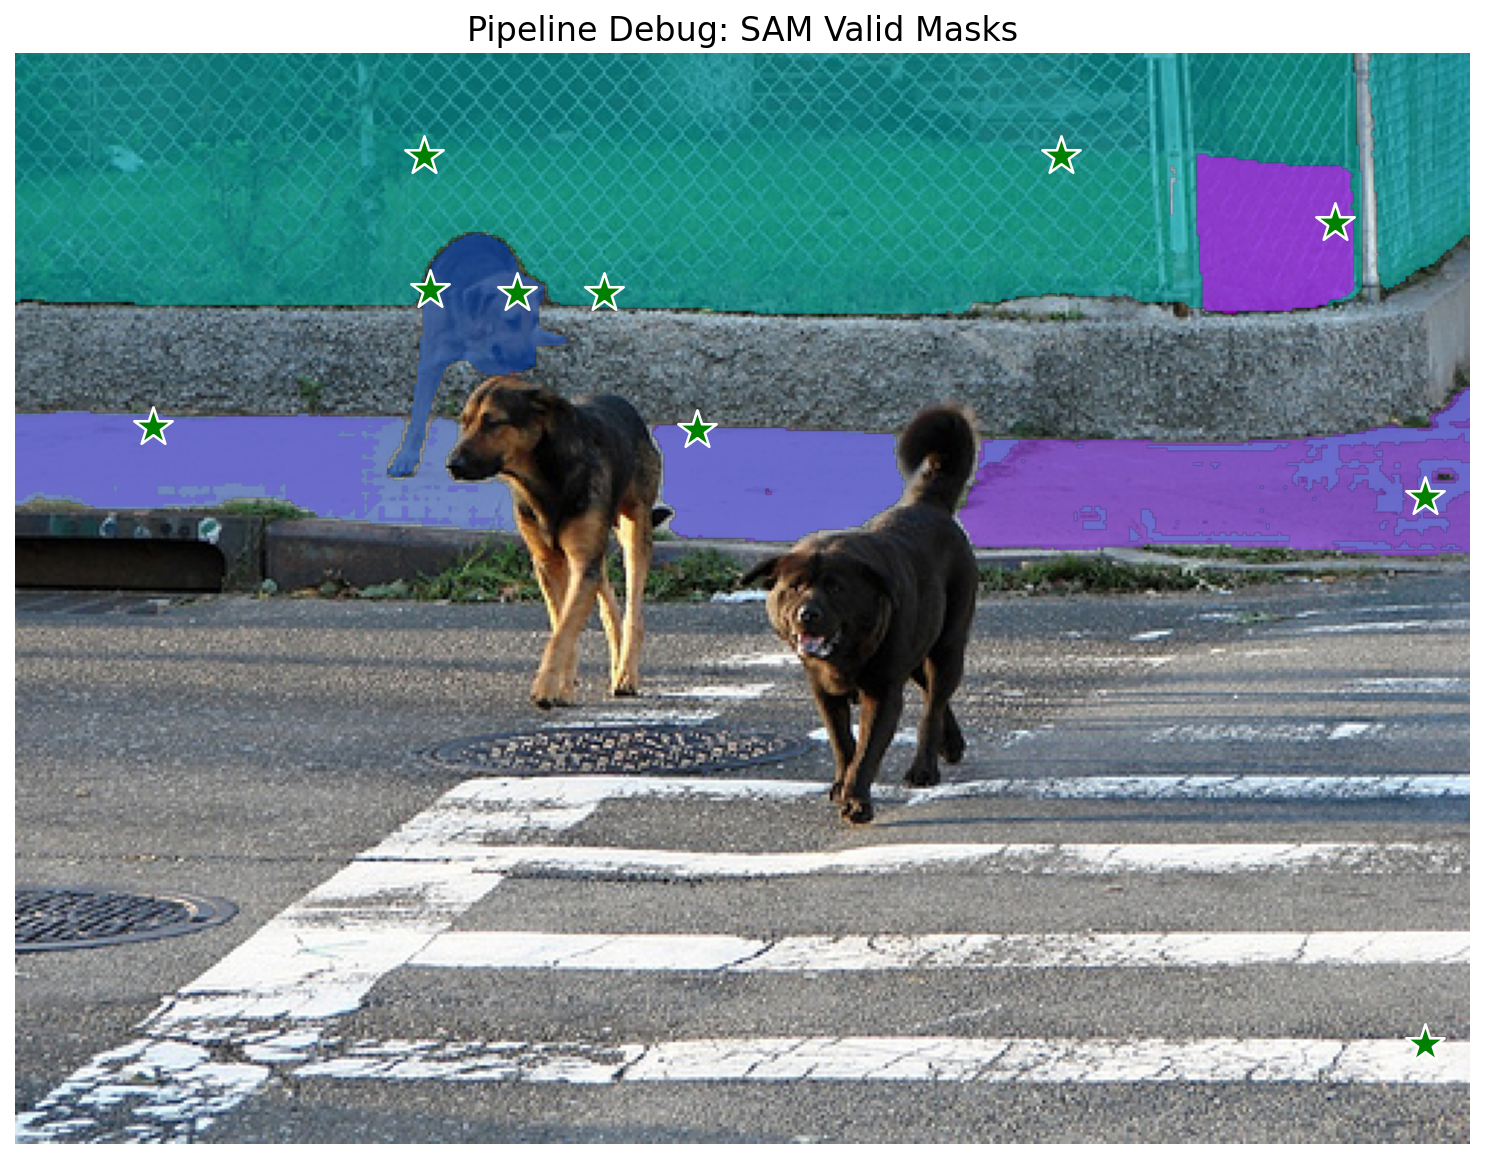
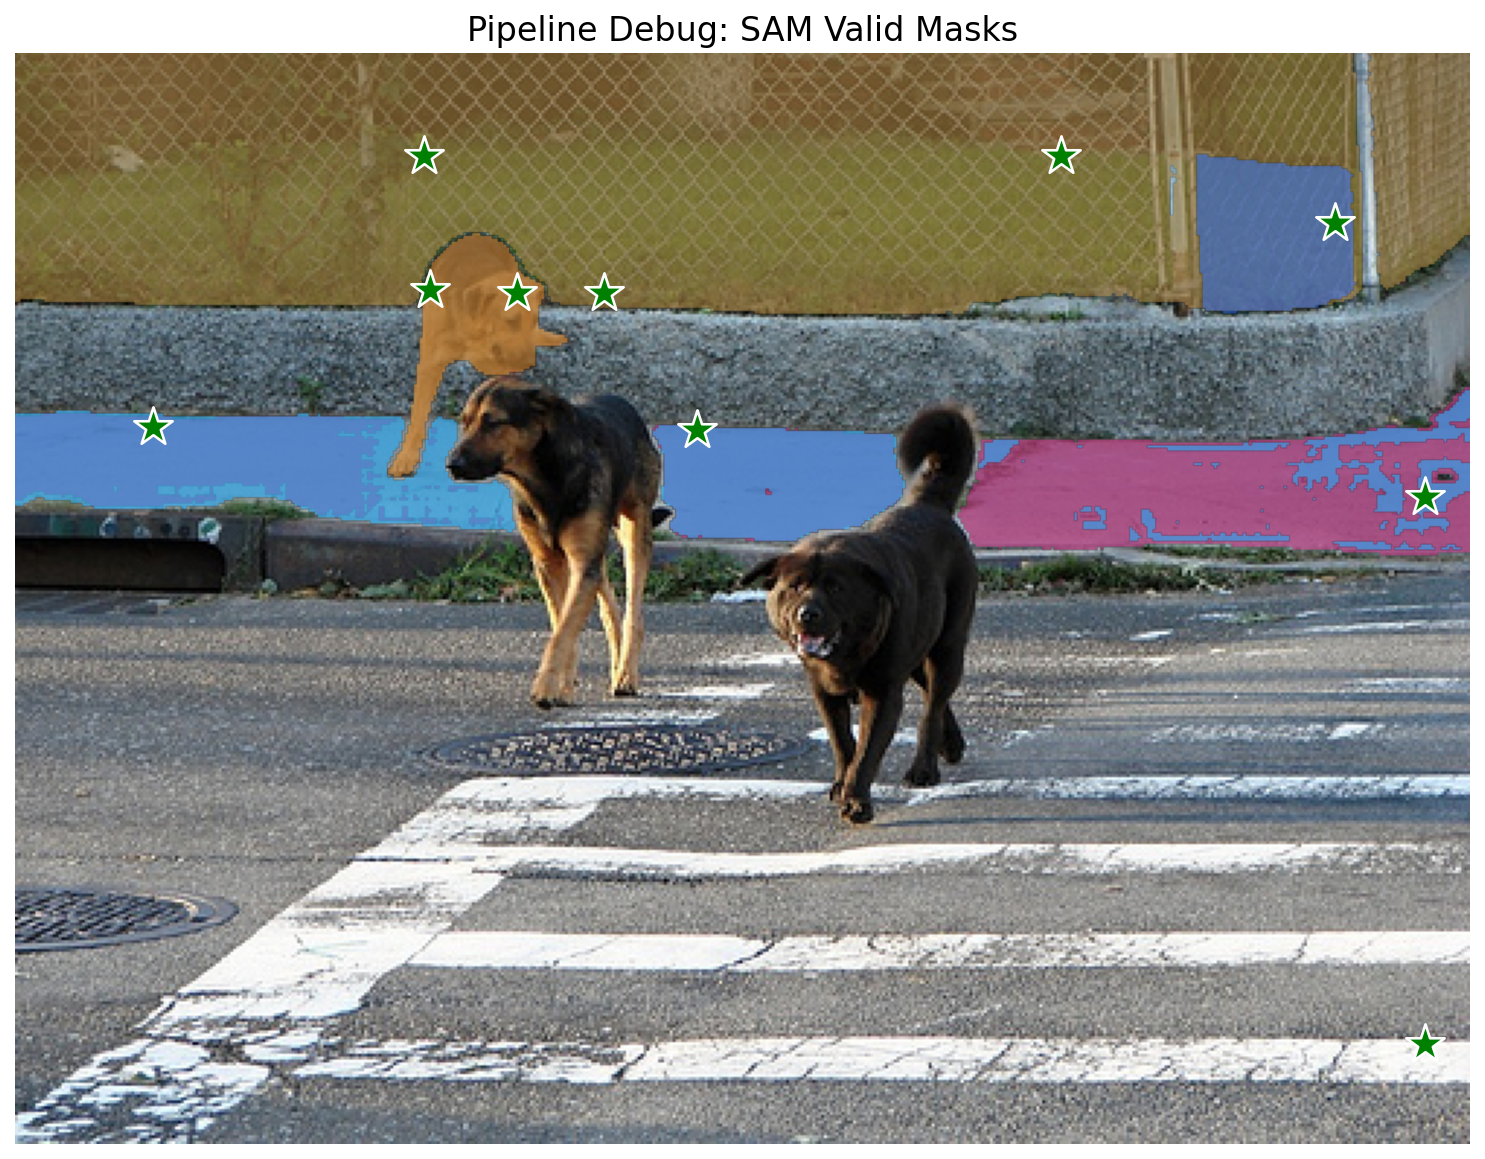
fix:解决 CLIP 认错局部零件的问题

Changed region(s): [[0.0, 0.0311, 0.9912, 0.4659], [0.6505, 0.3417, 0.9912, 0.497], [0.4337, 0.3727, 0.6195, 0.4659]]

diff --git a/src/pipeline.py b/src/pipeline.py
@@ -167,8 +167,8 @@ class DinoSAMClipPipeline:
         for i, mask_dict in enumerate(valid_masks):
             mask = mask_dict["mask"]
             cropped, bbox = self.sam.crop_masked_region(image_array, mask, padding=10)
-            cropped_masked = self.sam.apply_mask_to_image(cropped, mask[bbox[1]:bbox[3], bbox[0]:bbox[2]])
-            cropped_resized = cv2.resize(cropped_masked, (224, 224))
+            # cropped_masked = self.sam.apply_mask_to_image(cropped, mask[bbox[1]:bbox[3], bbox[0]:bbox[2]])
+            cropped_resized = cv2.resize(cropped, (224, 224))
 
             cropped_images.append(cropped_resized)
             mask_data.append({